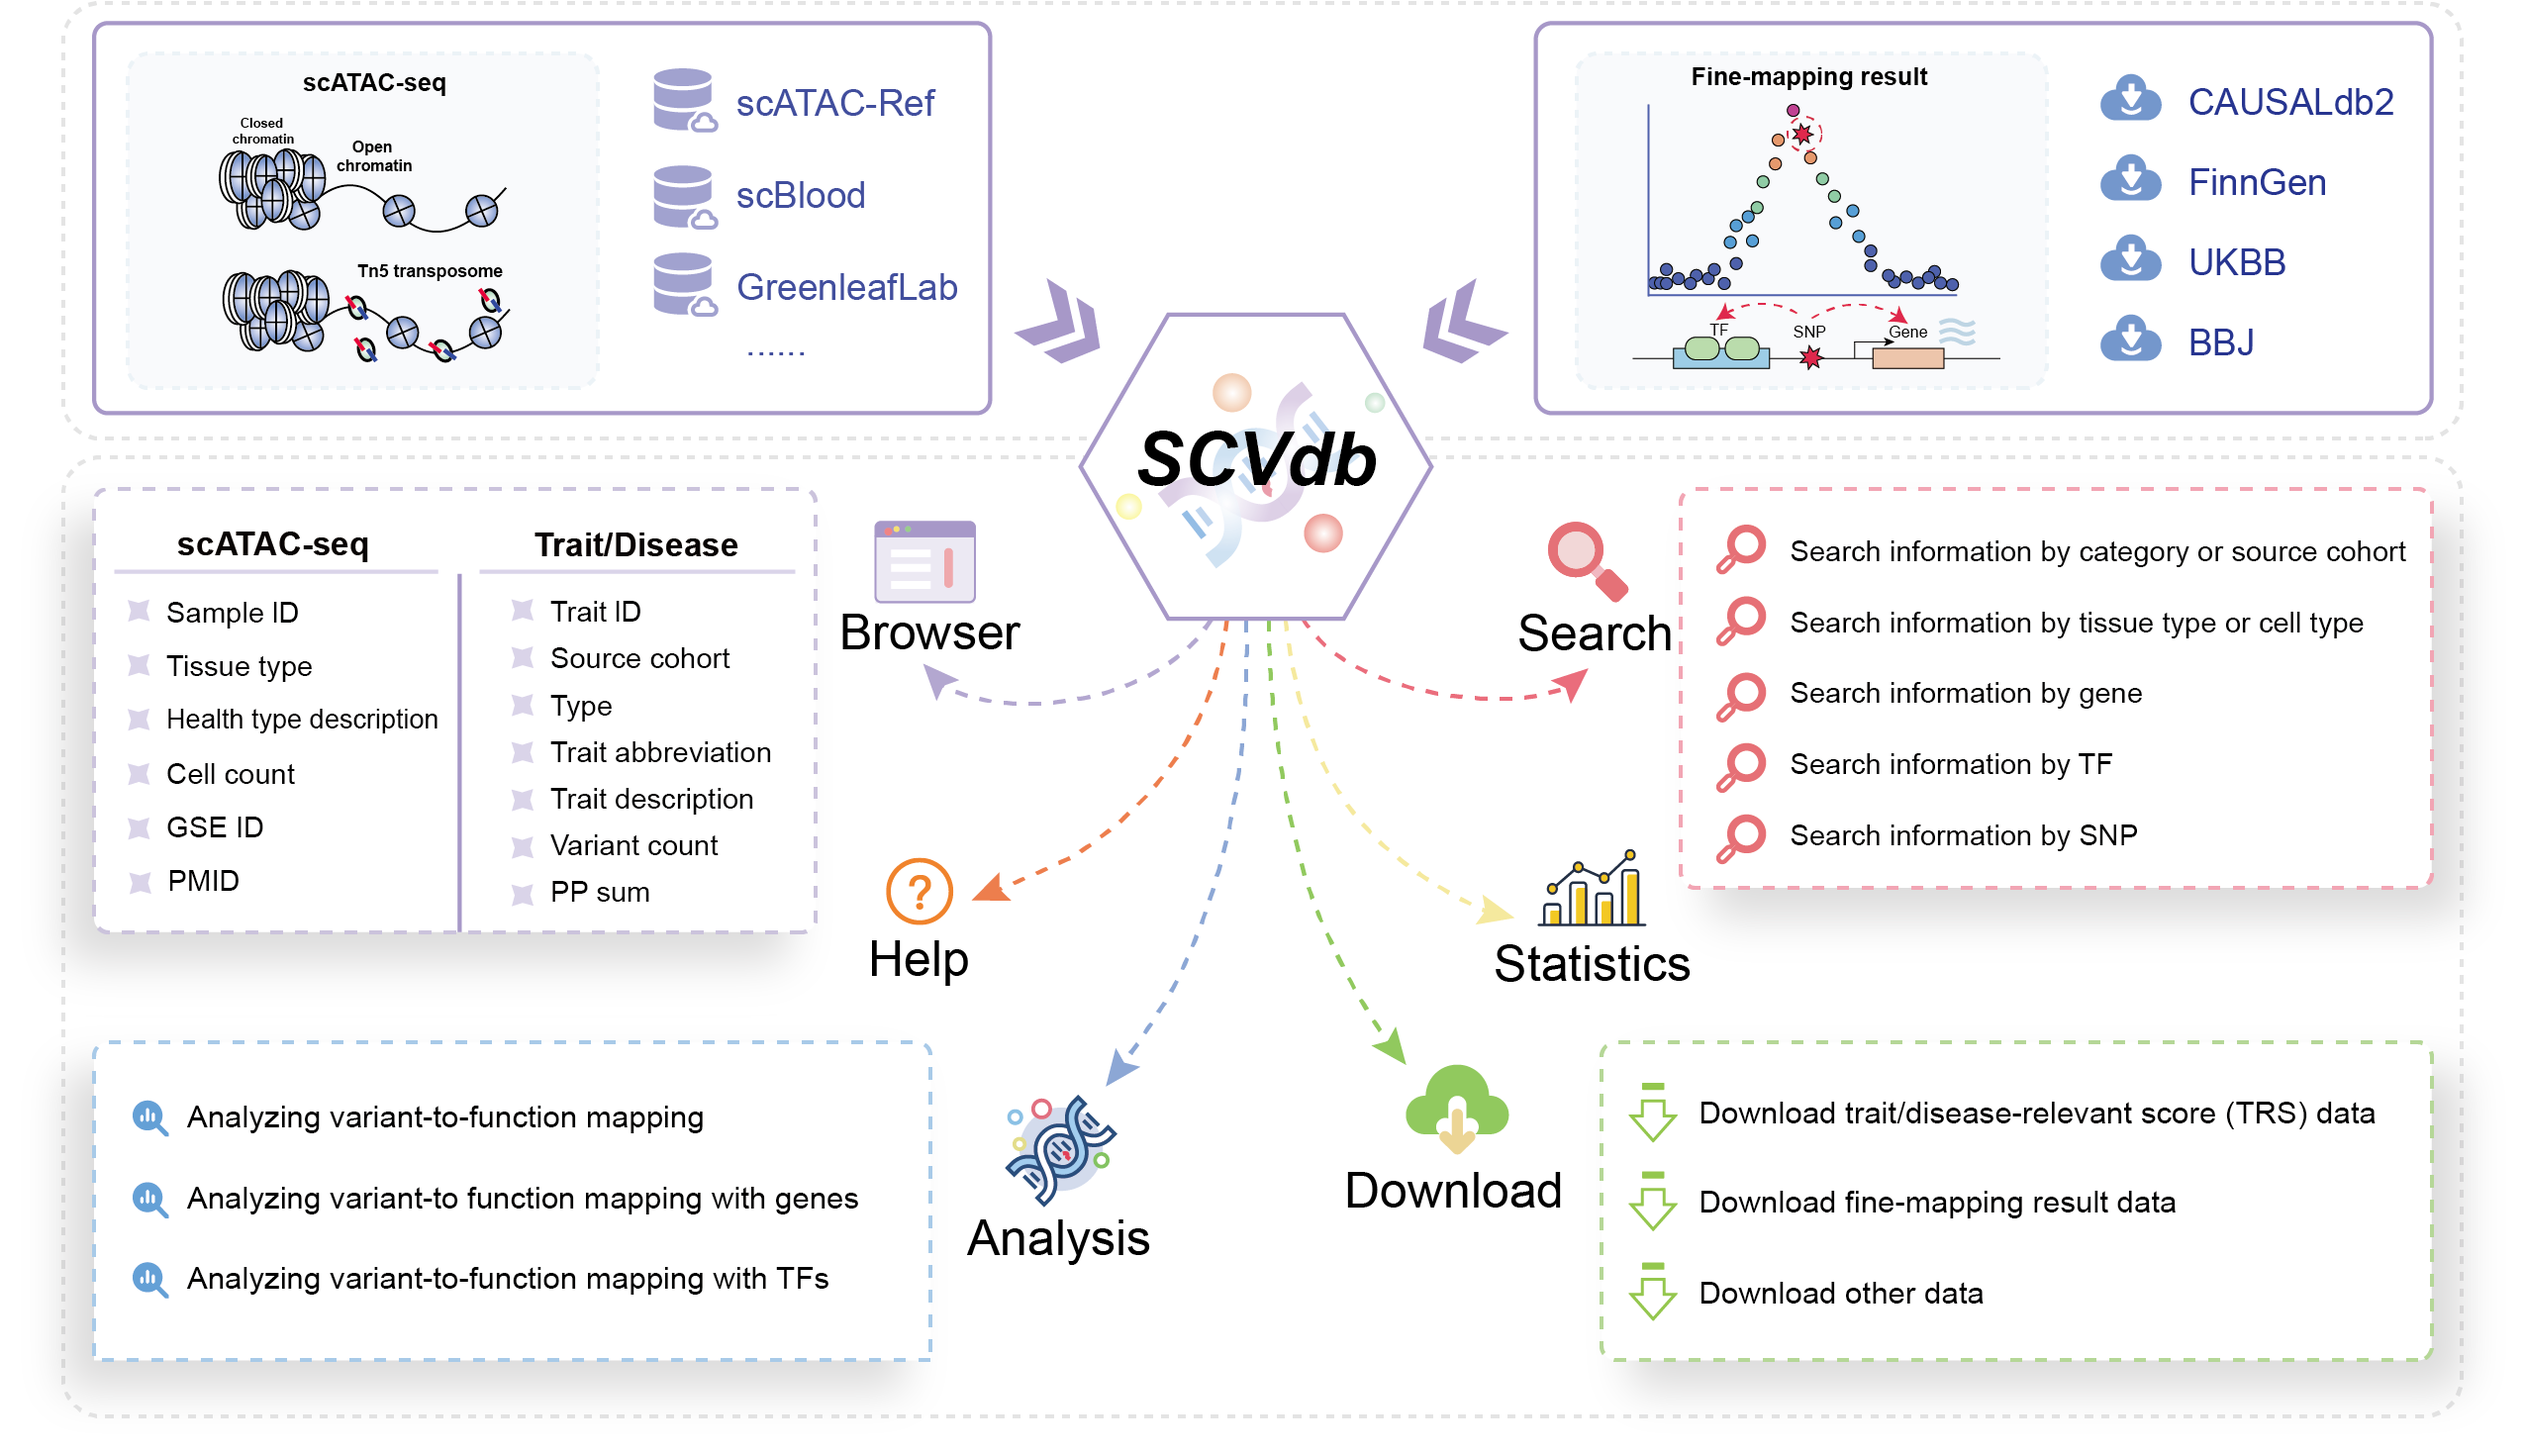
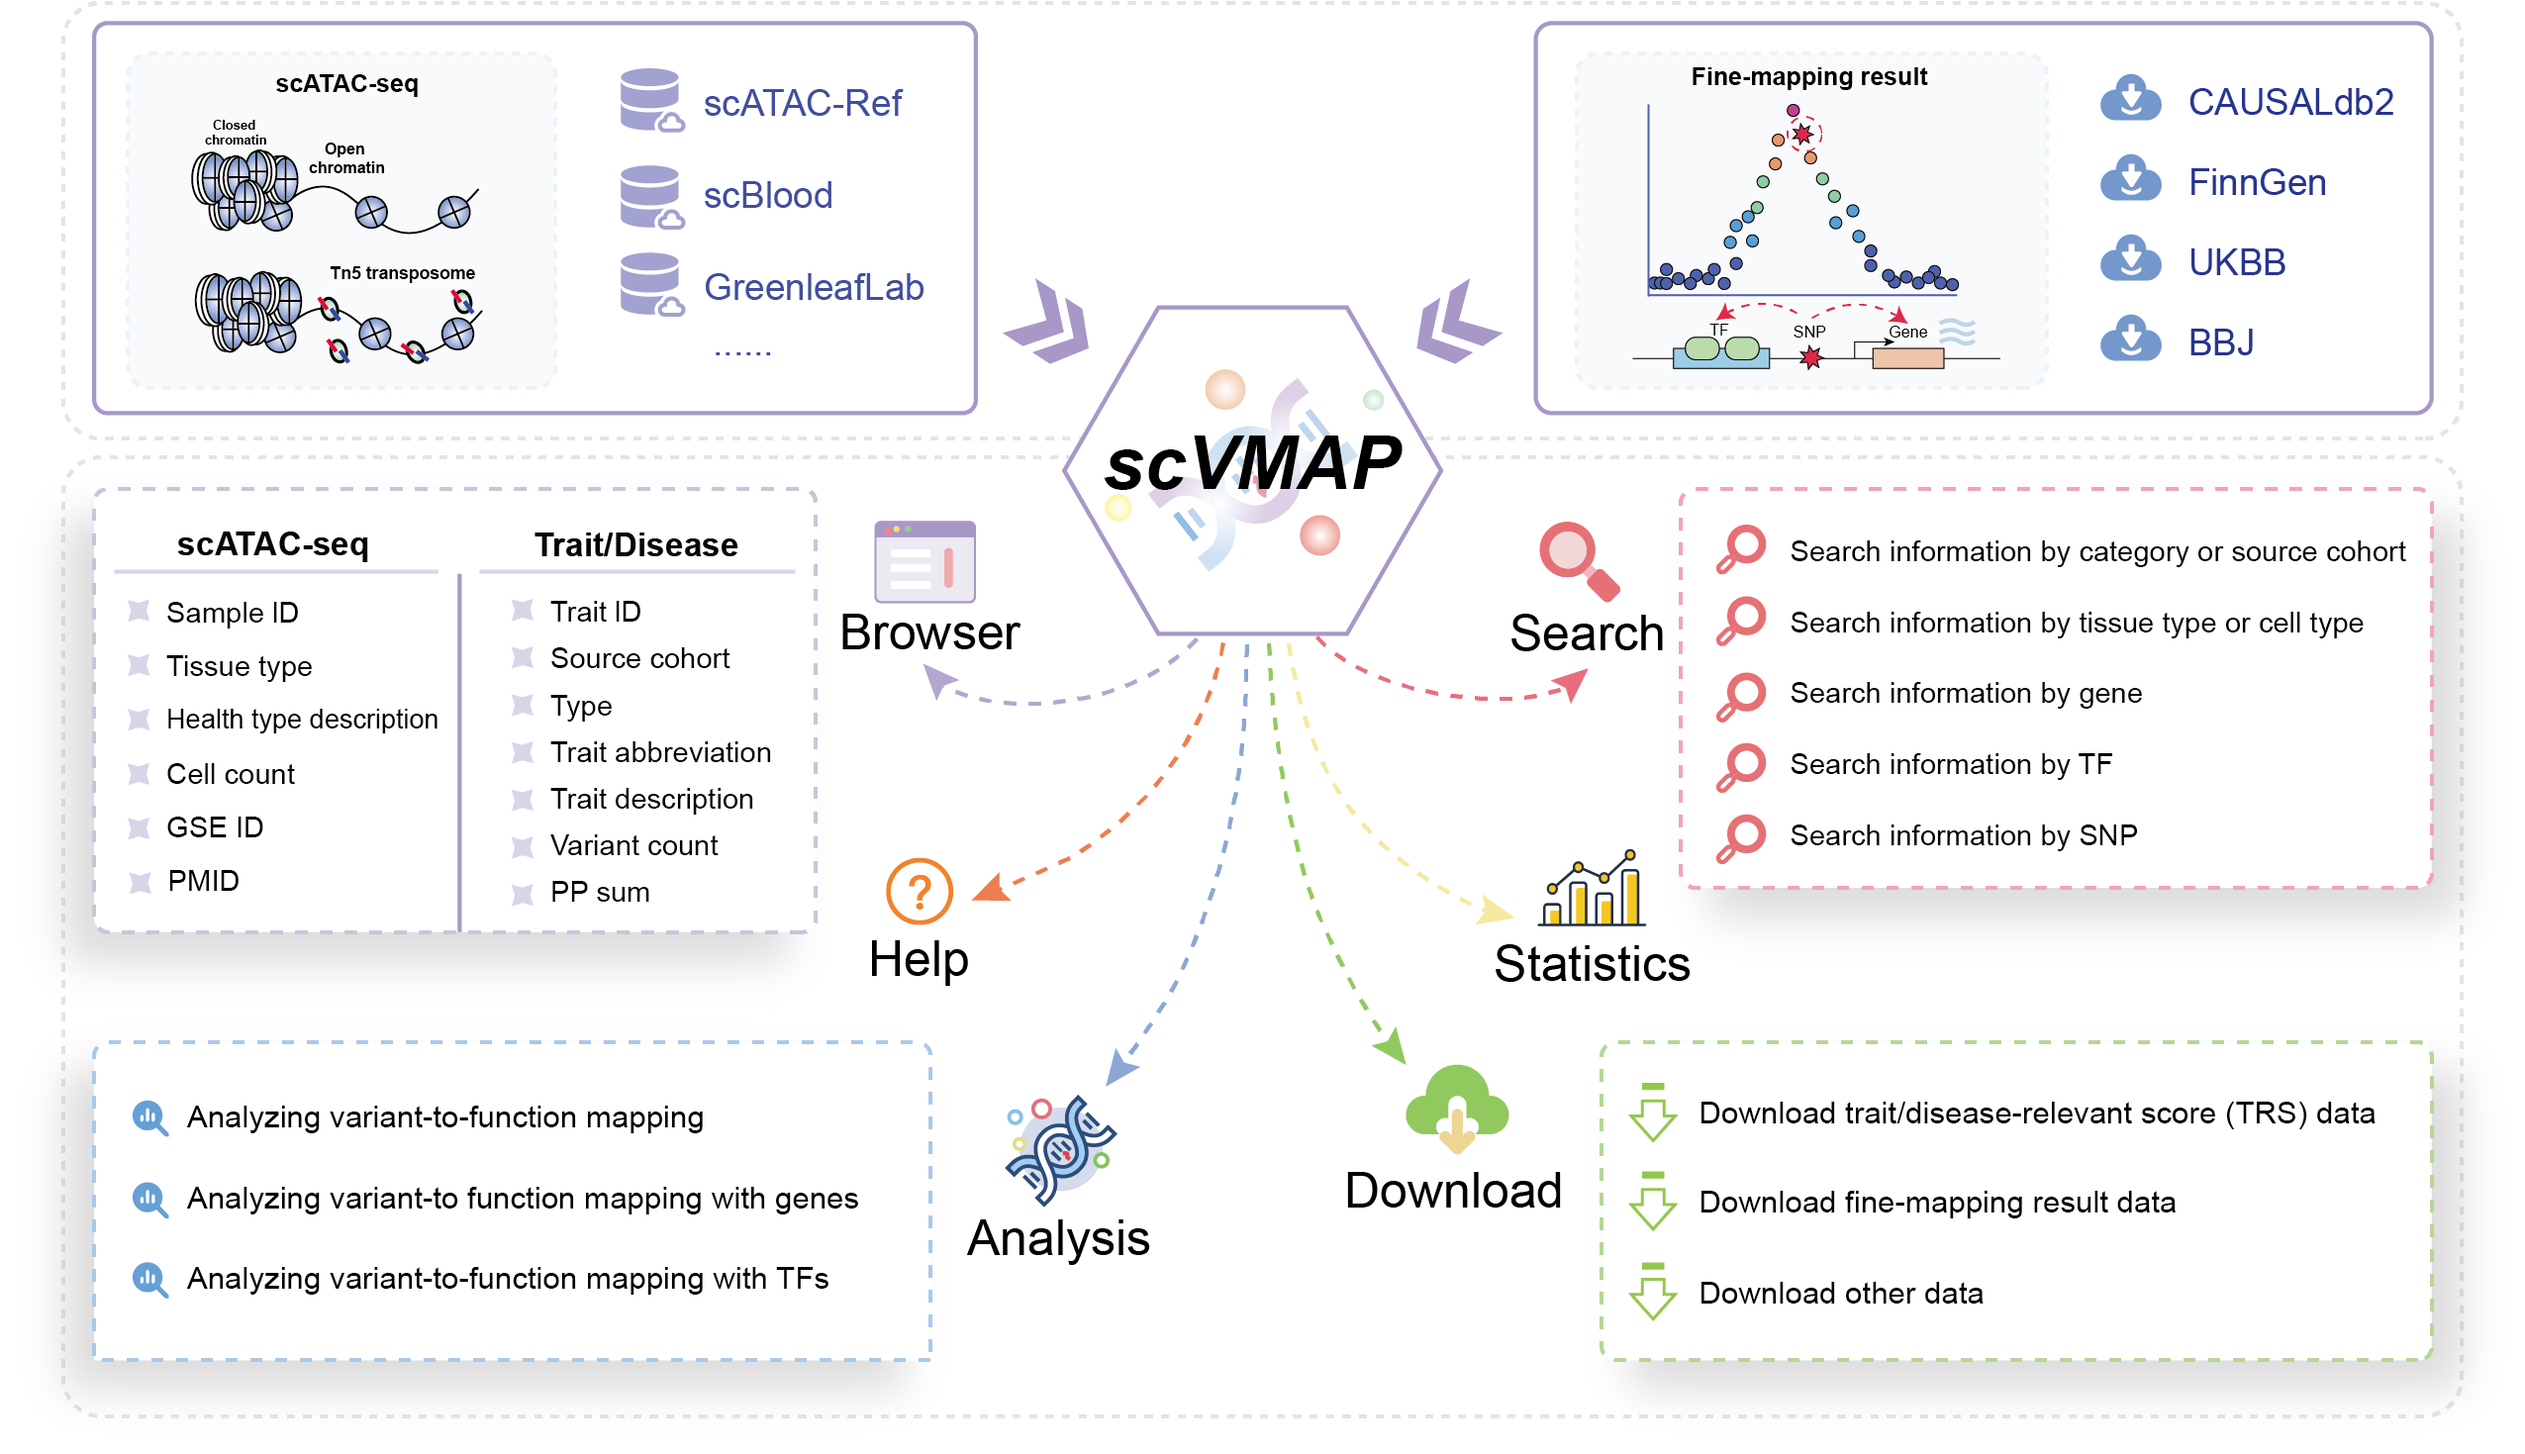
feat: Change the project name to scVMAP

diff --git a/src/main/resources/storage/deploy/README.md b/src/main/resources/storage/deploy/README.md
@@ -31,8 +31,8 @@ redis-cli -n 4 -a ${redis_password} FLUSHDB
 ### The content added to the host `nginx.conf`
 
 ```shell
-location /scvdb {
-    proxy_pass http://localhost:${front_end_port}/scvdb;
+location /scvmap {
+    proxy_pass http://localhost:${web_port}/scvmap;
     index  index.html index.htm index.jsp;
     proxy_set_header X-Real-IP $remote_addr;
     proxy_set_header REMOTE-HOST $remote_addr;
@@ -40,16 +40,16 @@ location /scvdb {
     proxy_set_header Host $host:$server_port;
 }
 
-location /scvdb_static {
-    proxy_pass http://localhost:${front_end_port}/static;
+location /scvmap_static {
+    proxy_pass http://localhost:${web_port}/data;
     proxy_set_header X-Real-IP $remote_addr;
     proxy_set_header REMOTE-HOST $remote_addr;
     proxy_set_header X-Forwarded-For $proxy_add_x_forwarded_for;
     proxy_set_header Host $host:$server_port;
 }
 
-location /scvdb_service/ {
-    proxy_pass http://localhost:${back_end_port}/scvdb_service/;
+location /scvmap_service/ {
+    proxy_pass http://localhost:${service_port}/scvmap_service;
     index  index.html index.htm index.jsp;
     proxy_set_header X-Real-IP $remote_addr;
     proxy_set_header REMOTE-HOST $remote_addr;

diff --git a/README.en.md b/README.en.md
@@ -1,12 +1,12 @@
-# Welcome to SCVdb Database Development Back-end!
+# Welcome to scVMAP Platform Development Back-end!
 
-> SCVdb: https://bio.liclab.net/scvdb/
+> scVMAP: https://bio.liclab.net/scvmap/
 
-> SCVdb tutorial: https://scvdb-tutorial.readthedocs.io/en/latest/index.html
+> scVMAP tutorial: https://scvmap.readthedocs.io/en/latest/
 
-> SCVdb front-end: https://github.com/YuZhengM/scvdb_web
+> scVMAP front-end: https://github.com/YuZhengM/scvmap_web
 
-> SCVdb API: https://bio.liclab.net/scvdb_service/swagger-ui/index.html
+> scVMAP API: https://bio.liclab.net/scvmap_service/swagger-ui/index.html
 
 A comprehensive platform for human **integrating** `single-cell chromatin accessibility data` with `causal variants`.
 
@@ -14,7 +14,7 @@ A comprehensive platform for human **integrating** `single-cell chromatin access
 
 ## Introduction
 
-> Bioinformatics website: SCVdb
+> Bioinformatics website: scVMAP
 
 > Framework: SpringBoot (3.0.5)
 

diff --git a/README.md b/README.md
@@ -1,12 +1,12 @@
-# Welcome to SCVdb Database Development Back-end!
+# Welcome to scVMAP Platform Development Back-end!
 
-> SCVdb: https://bio.liclab.net/scvdb/
+> scVMAP: https://bio.liclab.net/scvmap/
 
-> SCVdb tutorial: https://scvdb-tutorial.readthedocs.io/en/latest/index.html
+> scVMAP tutorial: https://scvmap.readthedocs.io/en/latest/
 
-> SCVdb front-end: https://github.com/YuZhengM/scvdb_web
+> scVMAP front-end: https://github.com/YuZhengM/scvmap_web
 
-> SCVdb API: https://bio.liclab.net/scvdb_service/swagger-ui/index.html
+> scVMAP API: https://bio.liclab.net/scvmap_service/swagger-ui/index.html
 
 A comprehensive platform for human **integrating** `single-cell chromatin accessibility data` with `causal variants`.
 
@@ -14,7 +14,7 @@ A comprehensive platform for human **integrating** `single-cell chromatin access
 
 ## Introduction
 
-> Bioinformatics website: SCVdb
+> Bioinformatics website: scVMAP
 
 > Framework: SpringBoot (3.0.5)
 
